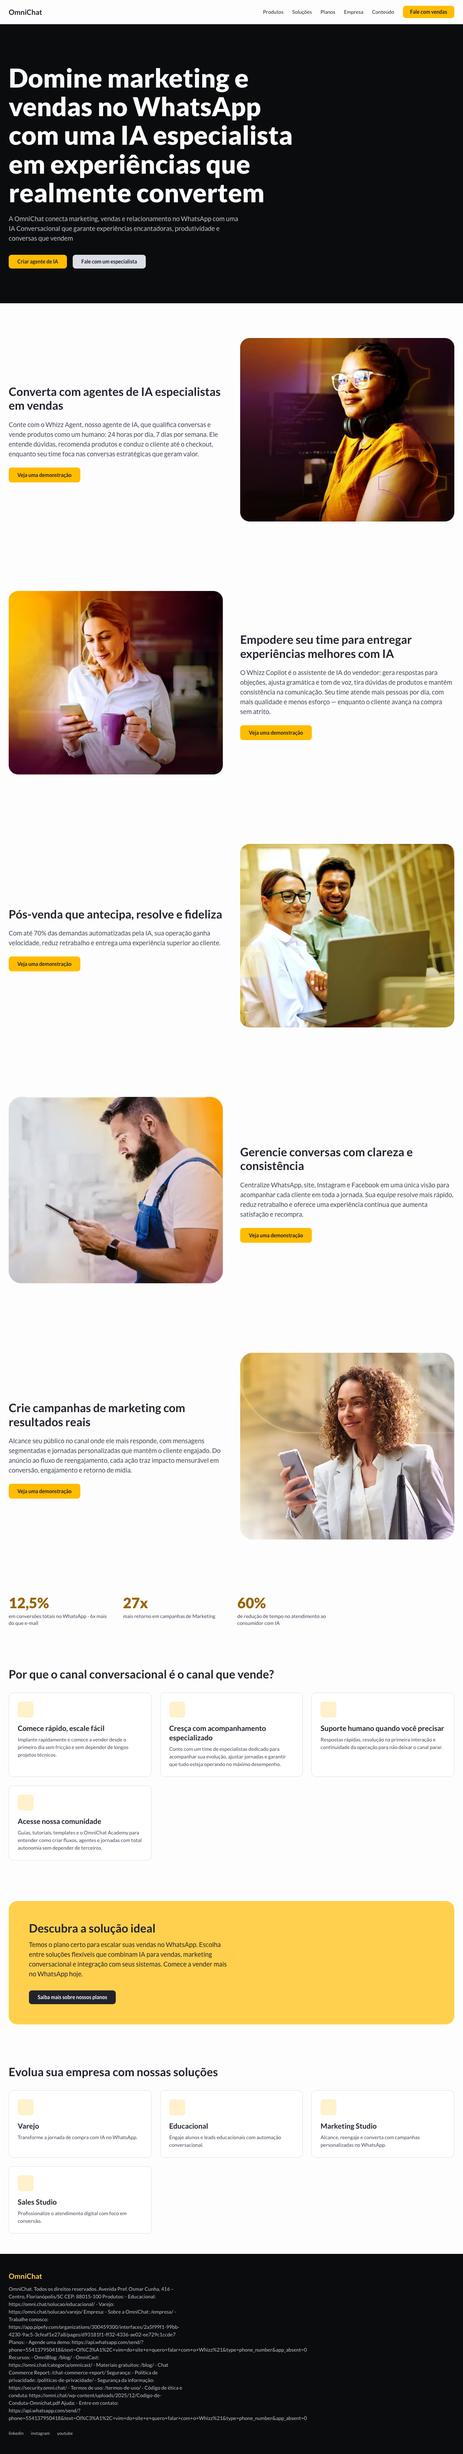
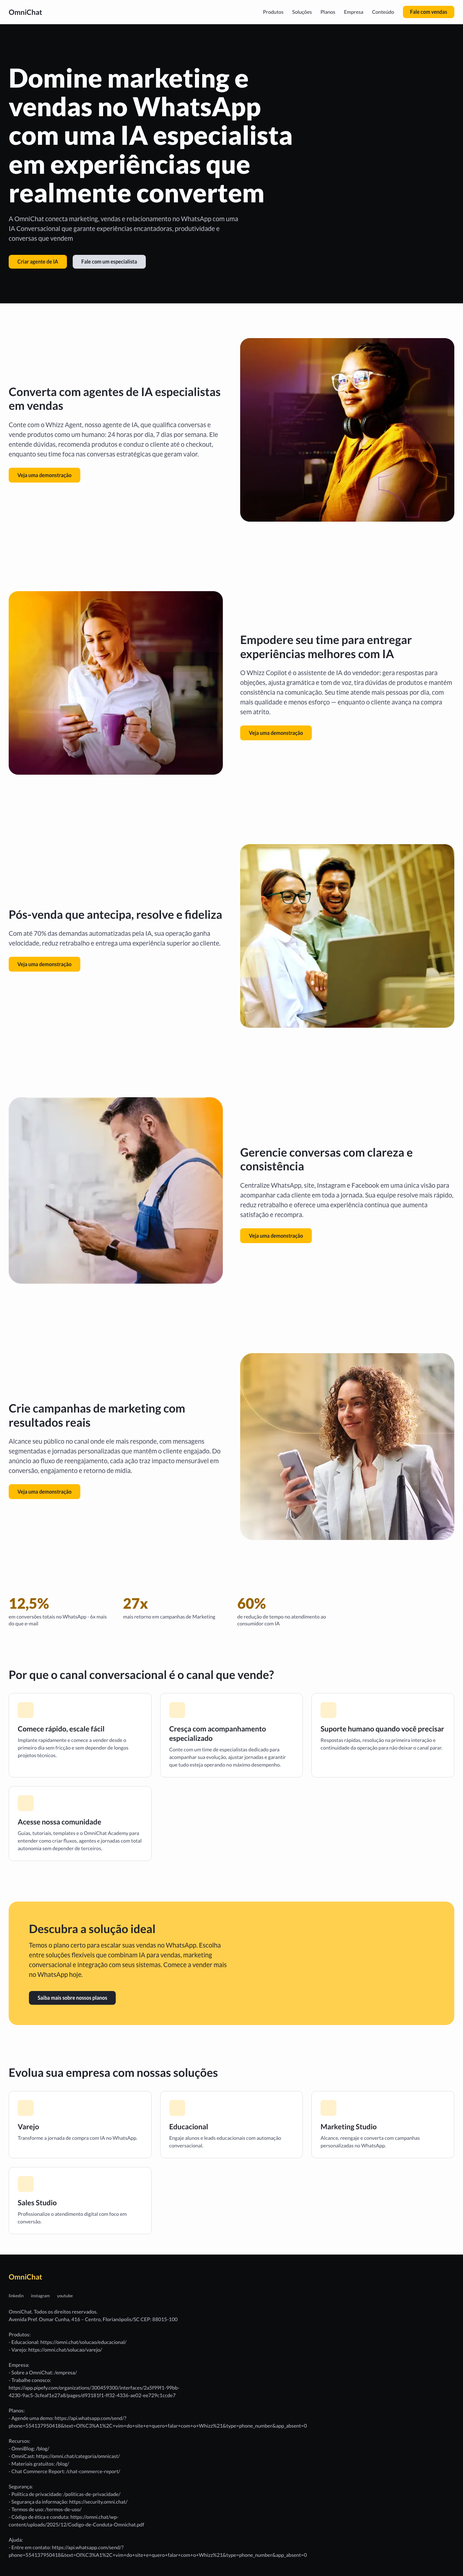
fix: model footer columns structurally and remove invalid hero image field
C1 - Footer blob: add footerColumns array schema field (title + links[]{label,href}),
seed structured columns into Sanity production dataset instead of serialising them
into footerText, update SETTINGS_QUERY projection, update Footer component to render
a responsive 6-column link grid with oc-overline/oc-caption tokens; footerText now
holds copyright text only.

I1 - Hero image: remove image:imgHero from chat-commerce-report hero section seed
(hero schema/component has no image field); also remove unused imgHero variable
declaration. Sanity asset upload is retained.

Both datasets re-seeded. All gates green: lint, typecheck, test (52), build (218
pages), test:e2e (25/25). Screenshots regenerated via visual-compare.

diff --git a/components/site/footer.tsx b/components/site/footer.tsx
@@ -1,18 +1,62 @@
 type Social = { platform: string; url: string };
+type FooterLink = { label: string; href: string };
+type FooterColumn = { title: string; links: FooterLink[] };
 
-export function Footer({ footerText, social = [] }: { footerText?: string; social?: Social[] }) {
+export function Footer({
+  footerText,
+  footerColumns = [],
+  social = [],
+}: {
+  footerText?: string;
+  footerColumns?: FooterColumn[];
+  social?: Social[];
+}) {
   return (
     <footer className="mt-auto bg-oc-dark">
       <div className="mx-auto max-w-[1280px] px-6 py-12">
         <p className="oc-h5 text-oc-yellow-mass">OmniChat</p>
-        {footerText && <p className="oc-body-sm mt-3 max-w-[480px] text-oc-neutral">{footerText}</p>}
-        <div className="mt-6 flex gap-5">
+
+        {footerColumns.length > 0 && (
+          <nav aria-label="Links do rodapé" className="mt-8 grid grid-cols-2 gap-8 sm:grid-cols-3 lg:grid-cols-6">
+            {footerColumns.map((col) => (
+              <div key={col.title}>
+                <p className="oc-overline text-oc-neutral">{col.title}</p>
+                <ul className="mt-3 space-y-2">
+                  {col.links.map((link) => (
+                    <li key={link.href}>
+                      <a
+                        href={link.href}
+                        className="oc-caption text-oc-neutral hover:text-oc-yellow-mass transition-colors duration-150"
+                        target={link.href.startsWith("http") ? "_blank" : undefined}
+                        rel={link.href.startsWith("http") ? "noopener noreferrer" : undefined}
+                      >
+                        {link.label}
+                      </a>
+                    </li>
+                  ))}
+                </ul>
+              </div>
+            ))}
+          </nav>
+        )}
+
+        <div className="mt-8 flex gap-5">
           {social.map((s) => (
-            <a key={s.platform} href={s.url} className="oc-caption text-oc-neutral hover:text-oc-yellow-mass">
+            <a
+              key={s.platform}
+              href={s.url}
+              className="oc-caption text-oc-neutral hover:text-oc-yellow-mass transition-colors duration-150"
+              target="_blank"
+              rel="noopener noreferrer"
+            >
               {s.platform}
             </a>
           ))}
         </div>
+
+        {footerText && (
+          <p className="oc-body-sm mt-6 max-w-[480px] text-oc-neutral whitespace-pre-line">{footerText}</p>
+        )}
       </div>
     </footer>
   );

diff --git a/scripts/migrate-wp/site-settings.ts b/scripts/migrate-wp/site-settings.ts
@@ -111,21 +111,24 @@ export async function migrateSiteSettings(): Promise<void> {
     url: item.url,
   }));
 
-  // Build footer columns as part of footerText (plain text summary)
-  // The schema has `footerText` as a text field; store columns as JSON-ish description
-  // and use a separate footerColumns field is not in schema — we store as footerText.
-  // For richer data, we serialize columns list into the text field.
-  const footerColumnsText = FOOTER_COLUMNS.map(
-    (col) =>
-      `${col.title}:\n${col.links.map((l) => `  - ${l.label}: ${l.href}`).join("\n")}`
-  ).join("\n\n");
+  // Build footer columns as structured array for the footerColumns field
+  const footerColumns = FOOTER_COLUMNS.map((col, ci) => ({
+    _key: `col-${ci}`,
+    title: col.title,
+    links: col.links.map((l, li) => ({
+      _key: `link-${ci}-${li}`,
+      label: l.label,
+      href: l.href,
+    })),
+  }));
 
   const doc = {
     _id: "siteSettings",
     _type: "siteSettings",
     siteName: "OmniChat",
     nav,
-    footerText: `${FOOTER_TEXT}\n\n${footerColumnsText}`,
+    footerText: FOOTER_TEXT,
+    footerColumns,
     social,
     organization: {
       name: "OmniChat",
@@ -148,5 +151,6 @@ export async function migrateSiteSettings(): Promise<void> {
   console.log("[migrate] ✓ siteSettings upserted.");
   console.log(`[migrate]   Nav items: ${nav.length}`);
   console.log(`[migrate]   Social links: ${social.length}`);
+  console.log(`[migrate]   Footer columns: ${footerColumns.length}`);
   console.log("[migrate] siteSettings migration complete.");
 }

diff --git a/sanity/schemas/documents/site-settings.ts b/sanity/schemas/documents/site-settings.ts
@@ -20,7 +20,34 @@ export const siteSettings = defineType({
         }),
       ],
     }),
-    defineField({ name: "footerText", title: "Texto do rodapé", type: "text", rows: 2 }),
+    defineField({ name: "footerText", title: "Texto do rodapé (copyright)", type: "text", rows: 2 }),
+    defineField({
+      name: "footerColumns",
+      title: "Colunas do rodapé",
+      type: "array",
+      of: [
+        defineArrayMember({
+          type: "object",
+          fields: [
+            defineField({ name: "title", title: "Título da coluna", type: "string" }),
+            defineField({
+              name: "links",
+              title: "Links",
+              type: "array",
+              of: [
+                defineArrayMember({
+                  type: "object",
+                  fields: [
+                    defineField({ name: "label", title: "Rótulo", type: "string" }),
+                    defineField({ name: "href", title: "URL", type: "string" }),
+                  ],
+                }),
+              ],
+            }),
+          ],
+        }),
+      ],
+    }),
     defineField({
       name: "social",
       title: "Redes sociais",

diff --git a/scripts/migrate-wp/seed-marketing-pages.ts b/scripts/migrate-wp/seed-marketing-pages.ts
@@ -484,10 +484,6 @@ async function buildChatCommerceReport() {
   // HubSpot form endpoint: portal 20121735, form 4b6b3796-b24c-4786-ba60-39e2bba014b0
   const formAction = "https://api.hsforms.com/submissions/v3/integration/submit/20121735/4b6b3796-b24c-4786-ba60-39e2bba014b0";
 
-  const imgHero = await img(
-    "https://omni.chat/wp-content/uploads/2026/04/Image-02.png",
-    "Relatório de comércio por chat no Brasil 2026, análise de impacto e tendências do mercado digital."
-  );
   const imgFeatureSplit = await img(
     "https://omni.chat/wp-content/uploads/2026/04/Image-04.png",
     "O consumidor já está comprando pelo WhatsApp"
@@ -522,7 +518,6 @@ async function buildChatCommerceReport() {
       _key: key("s", 0),
       title: "Um retrato em dados da jornada conversacional e o impacto da IA no Brasil",
       subtitle: "Explore agora as melhores práticas do mercado conversacional",
-      image: imgHero,
       ctas: [
         { _key: "cta-0", label: "Acesse o Estudo", href: "#formulario", variant: "primary" },
       ],

diff --git a/app/(site)/layout.tsx b/app/(site)/layout.tsx
@@ -3,9 +3,12 @@ import { Footer } from "@/components/site/footer";
 import { sanityFetch } from "@/services/sanity/client";
 import { SETTINGS_QUERY } from "@/services/sanity/queries";
 
+type FooterLink = { label: string; href: string };
+type FooterColumn = { title: string; links: FooterLink[] };
 type Settings = {
   nav?: { label: string; href: string }[];
   footerText?: string;
+  footerColumns?: FooterColumn[];
   social?: { platform: string; url: string }[];
 } | null;
 
@@ -15,7 +18,7 @@ export default async function SiteLayout({ children }: { children: React.ReactNo
     <>
       <Header nav={settings?.nav ?? []} />
       {children}
-      <Footer footerText={settings?.footerText} social={settings?.social ?? []} />
+      <Footer footerText={settings?.footerText} footerColumns={settings?.footerColumns ?? []} social={settings?.social ?? []} />
     </>
   );
 }

diff --git a/services/sanity/queries.ts b/services/sanity/queries.ts
@@ -29,6 +29,7 @@ export const POST_SLUGS_QUERY = `*[_type == "post" && defined(slug.current)].slu
 
 export const SETTINGS_QUERY = `*[_type == "siteSettings"][0]{
   siteName, nav[]{label, href}, footerText,
+  footerColumns[]{title, links[]{label, href}},
   social[]{platform, url},
   organization{name, legalName, url, logoUrl, sameAs}
 }`;
